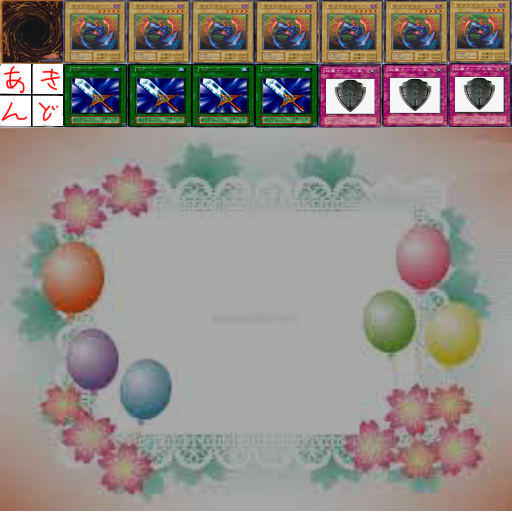
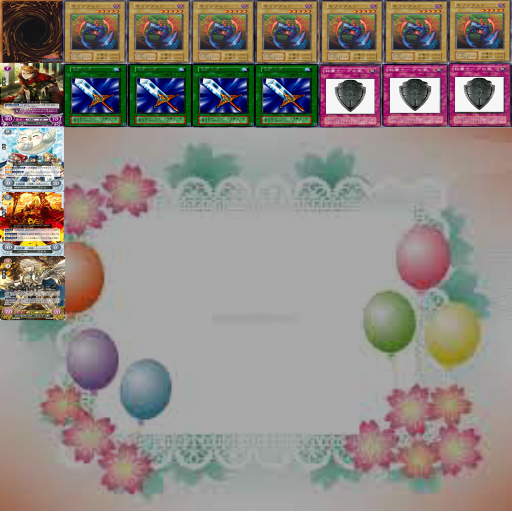
場に出す処理作成中

Changed region(s): [[0.0, 0.125, 0.125, 0.625]]

diff --git a/Main/Main/map.h b/Main/Main/map.h
@@ -15,10 +15,13 @@ class CObjMap : public CObj
 		void Action();
 		void Draw();
 
-		bool L_position;
-		bool S_position;
-		bool R_position;
+		bool L_position, L_position2, L_position3;
+		bool S_position,S_position2;
+		bool R_position, R_position2, R_position3;
 		bool m_f;
+
+		int PCard[4], PCard2[4], PCard3[4];
+		int ECard[4], ECard2[4], ECard3[4];
 	private:
 
 };

diff --git a/Main/Main/map.cpp b/Main/Main/map.cpp
@@ -8,8 +8,14 @@ using namespace GameL;
 void CObjMap::Init()
 {
 	L_position = false;
+	L_position2 = false;
+	L_position3 = false;
 	S_position = false;
+	S_position2 = false;
 	R_position = false;
+	R_position2 = false;
+	R_position3 = false;
+
 	m_f = false;
 }
 

diff --git a/Main/Main/GameHead.h b/Main/Main/GameHead.h
@@ -67,6 +67,7 @@ struct UserData
 #include"HandCard.h"
 #include"Cardlist.h"
 #include"Mcardlist.h"
+#include"Player.h"
 
 #include"ObjTitle.h"
 //------------------------------------------------
